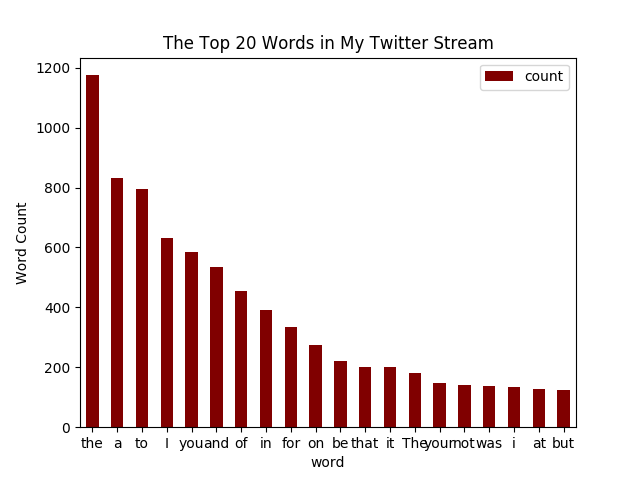
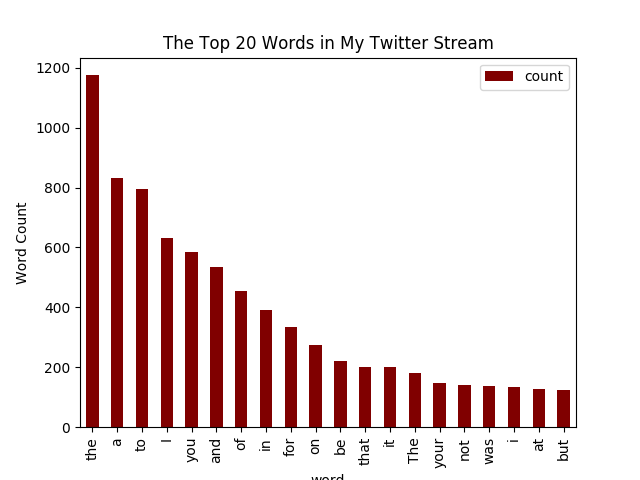
?

Changed region(s): [[0.125, 0.9062, 0.9062, 1.0]]

diff --git a/exercise_2/Plot.py b/exercise_2/Plot.py
@@ -15,7 +15,7 @@ df_counts.set_index(['word'], inplace = True)
 
 plt.clf()
 plt.figure(figsize = (15, 15))
-df_counts.plot(kind = 'bar', title = 'The Top 20 Words in My Twitter Stream', colormap = 'jet_r', rot = 0)
+df_counts.plot(kind = 'bar', title = 'The Top 20 Words in My Twitter Stream', colormap = 'jet_r', rot = 90)
 plt.ylabel('Word Count')
 plt.savefig('Plot.png')
 
